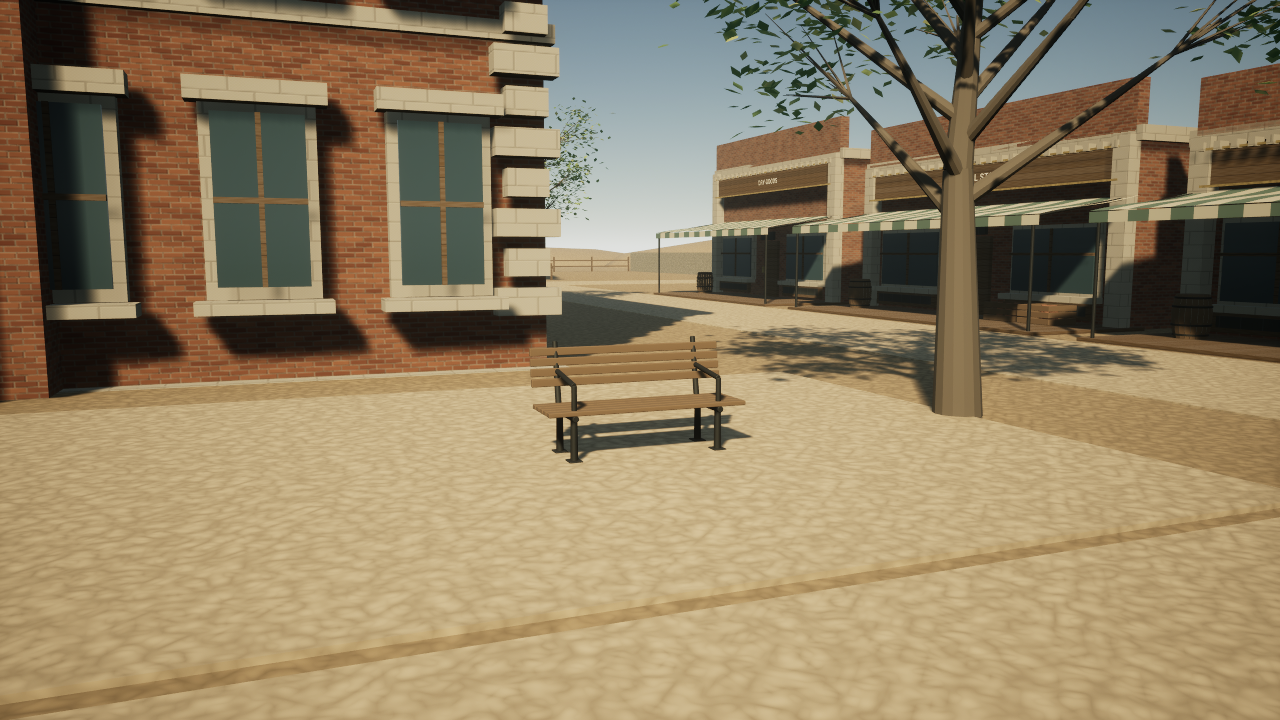
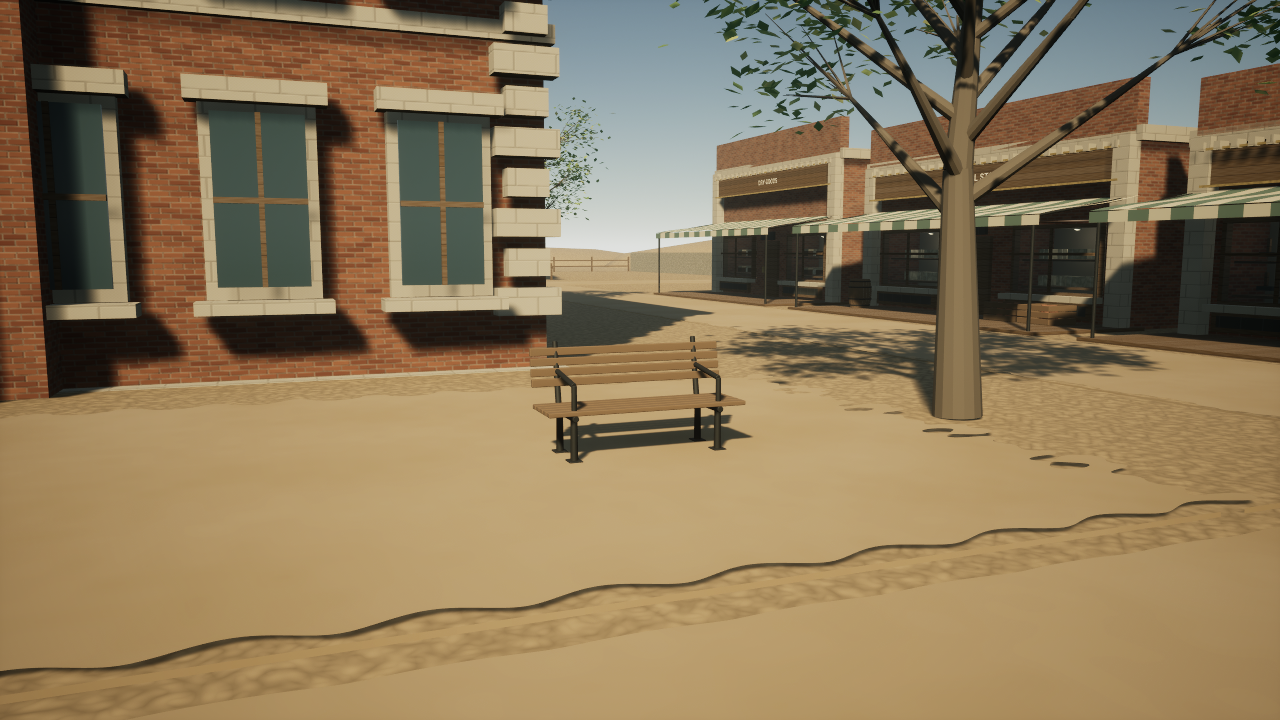
Give shops recessed displays and begin Reed appearance refinement

diff --git a/Source/CountyLine/World/CLPecosBend.cpp b/Source/CountyLine/World/CLPecosBend.cpp
@@ -35,6 +35,10 @@ UStaticMeshComponent* ACLPecosBend::Shape(const FString& Name,FVector P,FVector 
     else if(Kind==TEXT("Timber")) Finish=TEXT("Wood");
     else if(Kind==TEXT("Iron")) Finish=TEXT("Metal");
     else if(Kind==TEXT("Plaster")) Finish=TEXT("Stone");
+    if(Name.Contains(TEXT("DisplayInnerBack")))
+        if(auto* Backing=LoadObject<UMaterialInterface>(nullptr,TEXT("/Game/Art/Town/ShopDetails/M_DisplayBacking.M_DisplayBacking"))) C->SetMaterial(0,Backing);
+    if(Kind==TEXT("RoadDust"))
+        if(auto* Road=LoadObject<UMaterialInterface>(nullptr,TEXT("/Game/Art/Town/ShopDetails/M_WornRoadV2.M_WornRoadV2"))) C->SetMaterial(0,Road);
     if(!Finish.IsEmpty())
         if(auto* TownMaterial=LoadObject<UMaterialInterface>(nullptr,*FString::Printf(TEXT("/Game/Art/Town/StreetFinishes/M_StreetFinish%s.M_StreetFinish%s"),*Finish,*Finish))) C->SetMaterial(0,TownMaterial);
     C->SetCollisionEnabled(Collision?ECollisionEnabled::QueryAndPhysics:ECollisionEnabled::NoCollision);C->SetCollisionResponseToAllChannels(ECR_Block);
@@ -56,14 +60,64 @@ void ACLPecosBend::Store(const FString& Name,const FString& Title,FVector P,floa
     auto* Block=CreateDefaultSubobject<USceneComponent>(*(Name+TEXT("Block")));
     Block->SetupAttachment(RootComponent);Block->SetRelativeLocation(P);Block->SetRelativeRotation(FRotator(0,Yaw,0));
     ConstructionParent=Block;P=FVector::ZeroVector;
-    Shape(Name+TEXT("Walls"),P+FVector(0,0,Height/2),FVector(Width,700,Height),TEXT("Brick"));
+    // Closed-shop collision envelope remains unchanged; visible masonry leaves real display bays.
+    Shape(Name+TEXT("Walls"),P+FVector(0,0,Height/2),FVector(Width,700,Height),TEXT("Brick"))->SetVisibility(false);
+    Shape(Name+TEXT("RearMass"),FVector(0,70,Height/2),FVector(Width,560,Height),TEXT("Brick"),TEXT("Cube"),false);
+    Shape(Name+TEXT("FrontHeader"),FVector(0,-280,(Height+260)/2),FVector(Width,140,Height-260),TEXT("Brick"),TEXT("Cube"),false);
+    Shape(Name+TEXT("FrontBase"),FVector(0,-280,34),FVector(Width,140,68),TEXT("Brick"),TEXT("Cube"),false);
+    Shape(Name+TEXT("DoorPier"),FVector(0,-280,164),FVector(Width*.28f,140,192),TEXT("Brick"),TEXT("Cube"),false);
     Shape(Name+TEXT("Cornice"),P+FVector(0,0,Height),FVector(Width+35,735,35),TEXT("Plaster"));
     Shape(Name+TEXT("Parapet"),P+FVector(0,-350,Height+65),FVector(Width,35,120),TEXT("Brick"));
     Shape(Name+TEXT("Door"),P+FVector(0,-355,112),FVector(100,12,224),TEXT("Timber"));
     for(int32 Side:{-1,1})
     {
-        Shape(Name+FString::Printf(TEXT("Frame%d"),Side),P+FVector(Side*Width*.28f,-360,160),FVector(Width*.28f,18,180),TEXT("Plaster"));
-        Shape(Name+FString::Printf(TEXT("Glass%d"),Side),P+FVector(Side*Width*.28f,-372,160),FVector(Width*.28f-20,6,160),TEXT("Iron"));
+        const float X=Side*Width*.28f, Bay=Width*.28f;
+        Shape(Name+FString::Printf(TEXT("OuterPier%d"),Side),FVector(Side*Width*.46f,-280,164),FVector(Width*.08f,140,192),TEXT("Brick"),TEXT("Cube"),false);
+        Shape(Name+FString::Printf(TEXT("DisplayInnerBack%d"),Side),FVector(X,-218,160),FVector(Bay,8,180),TEXT("Linen"),TEXT("Cube"),false);
+        for(int32 Edge:{-1,1})
+        {
+            Shape(Name+FString::Printf(TEXT("FrameJamb%d_%d"),Side,Edge),FVector(X+Edge*(Bay/2-5),-360,160),FVector(10,18,180),TEXT("Timber"),TEXT("Cube"),false);
+            Shape(Name+FString::Printf(TEXT("FrameRail%d_%d"),Side,Edge),FVector(X,-360,160+Edge*85),FVector(Bay,18,10),TEXT("Timber"),TEXT("Cube"),false);
+        }
+        auto* Pane=Shape(Name+FString::Printf(TEXT("DisplayPane%d"),Side),FVector(X,-369,160),FVector(Bay-20,2,160),TEXT("Iron"),TEXT("Cube"),false);
+        if(auto* Glass=LoadObject<UMaterialInterface>(nullptr,TEXT("/Game/Art/Town/ShopDetails/M_DisplayGlass.M_DisplayGlass"))) Pane->SetMaterial(0,Glass);
+        Pane->SetCastShadow(false);
+        Shape(Name+FString::Printf(TEXT("DisplayLamp%d"),Side),FVector(X,-290,240),FVector(18,18,8),TEXT("Linen"),TEXT("Sphere"),false);
+        auto* DisplayLight=CreateDefaultSubobject<UPointLightComponent>(*(Name+FString::Printf(TEXT("DisplayLight%d"),Side)));
+        DisplayLight->SetupAttachment(Block);DisplayLight->SetRelativeLocation(FVector(X,-300,222));
+        DisplayLight->SetIntensity(350);DisplayLight->SetAttenuationRadius(240);
+        DisplayLight->SetLightColor(FLinearColor(1.f,.91f,.77f));DisplayLight->SetCastShadows(false);
+        DisplayLight->SetMobility(EComponentMobility::Movable);
+        for(int32 Row=0;Row<2;++Row)
+        {
+            Shape(Name+FString::Printf(TEXT("DisplayShelf%d_%d"),Side,Row),FVector(X,-285,90+Row*70),FVector(Bay-24,115,5),TEXT("Timber"),TEXT("Cube"),false);
+            for(int32 Item=0;Item<5;++Item)
+            {
+                const FString Id=Name+FString::Printf(TEXT("Stock%d_%d_%d"),Side,Row,Item);
+                const FVector At(X+(Item-2)*(Bay-45)/5,-285+(Item%2)*15,106+Row*70);
+                if(Name==TEXT("Drugs"))
+                {
+                    Shape(Id,At,FVector(16,16,28),TEXT("BottleGlass"),TEXT("Cylinder"),false);
+                    Shape(Id+TEXT("Stopper"),At+FVector(0,0,17),FVector(8,8,7),TEXT("Timber"),TEXT("Cylinder"),false);
+                    Shape(Id+TEXT("Label"),At+FVector(0,-8,0),FVector(11,1,12),TEXT("PaperLabel"),TEXT("Cube"),false);
+                }
+                else if(Name==TEXT("DryGoods"))
+                {
+                    Shape(Id,At,FVector(34,50,18),Item%2?TEXT("Linen"):TEXT("BrownWool"),TEXT("Cube"),false);
+                    Shape(Id+TEXT("Fold"),At+FVector(0,0,13),FVector(32,47,7),TEXT("Shirt"),TEXT("Cube"),false);
+                }
+                else if(Name==TEXT("ClosedShop"))
+                {
+                    Shape(Id,At,FVector(32,12,9),TEXT("Iron"),TEXT("Cube"),false);
+                    Shape(Id+TEXT("Handle"),At+FVector(0,0,18),FVector(6,6,30),TEXT("Timber"),TEXT("Cube"),false);
+                }
+                else
+                {
+                    Shape(Id,At,FVector(30,37,26),TEXT("PaperLabel"),TEXT("Cube"),false);
+                    Shape(Id+TEXT("Twine"),At+FVector(0,-19,0),FVector(2,1,26),TEXT("Linen"),TEXT("Cube"),false);
+                }
+            }
+        }
         Shape(Name+FString::Printf(TEXT("Mullion%d"),Side),P+FVector(Side*Width*.28f,-377,160),FVector(6,6,160),TEXT("Timber"),TEXT("Cube"),false);
     }
     Shape(Name+TEXT("SignBoard"),P+FVector(0,-370,Height-65),FVector(Width-60,15,78),TEXT("Timber"));
@@ -90,9 +144,25 @@ void ACLPecosBend::Store(const FString& Name,const FString& Title,FVector P,floa
             Shape(Name+FString::Printf(TEXT("CorniceDentil%d_%d"),Side,Dentil),FVector(Side*(25+Dentil*Width/25),-380,Height-22),FVector(14,28,18),TEXT("Plaster"),TEXT("Cube"),false);
         Shape(Name+FString::Printf(TEXT("SignFrame%d"),Side),FVector(0,-382,Height-65+Side*38),FVector(Width-54,10,5),TEXT("Brass"),TEXT("Cube"),false);
     }
-    StreetMesh(Name+TEXT("StockBarrel"),TEXT("SM_StreetBarrel"),FVector(Width*.40f,-465,6));
-    Shape(Name+TEXT("StockBarrelBlock"),FVector(Width*.40f,-465,51),FVector(70,70,90),TEXT("Timber"),TEXT("Cylinder"))->SetVisibility(false);
-    if(Name==TEXT("Grocer")) StreetMesh(Name+TEXT("ProduceDisplay"),TEXT("SM_StreetDisplay"),FVector(-Width*.28f,-440,6));
+    if(Name==TEXT("Grocer"))
+    {
+        StreetMesh(Name+TEXT("ProduceDisplay"),TEXT("SM_StreetDisplay"),FVector(-Width*.28f,-440,6));
+        Shape(Name+TEXT("ProduceBlock"),FVector(-Width*.28f,-440,30),FVector(210,90,48),TEXT("Timber"))->SetVisibility(false);
+        StreetMesh(Name+TEXT("StockBarrel"),TEXT("SM_StreetBarrel"),FVector(Width*.40f,-465,6));
+        Shape(Name+TEXT("StockBarrelBlock"),FVector(Width*.40f,-465,51),FVector(70,70,90),TEXT("Timber"),TEXT("Cylinder"))->SetVisibility(false);
+    }
+    if(Name==TEXT("PostOffice"))
+    {
+        Shape(Name+TEXT("LetterBox"),FVector(Width*.43f,-399,132),FVector(45,44,65),TEXT("Iron"));
+        Shape(Name+TEXT("LetterSlot"),FVector(Width*.43f,-422,150),FVector(31,2,4),TEXT("Hair"),TEXT("Cube"),false);
+        Sign(Name+TEXT("Collection"),TEXT("LETTERS"),FVector(Width*.43f,-424,131),-90,7);
+    }
+    if(Name==TEXT("ClosedShop"))
+    {
+        Shape(Name+TEXT("RepairBench"),FVector(-Width*.29f,-440,82),FVector(175,75,10),TEXT("Timber"));
+        for(int32 Leg:{-1,1}) Shape(Name+FString::Printf(TEXT("RepairLeg%d"),Leg),FVector(-Width*.29f+Leg*65,-440,43),FVector(12,60,80),TEXT("Timber"));
+        Shape(Name+TEXT("Vise"),FVector(-Width*.29f+45,-454,96),FVector(32,36,20),TEXT("Iron"),TEXT("Cube"),false);
+    }
     if(Name==TEXT("Drugs")) Sign(Name+TEXT("WindowService"),TEXT("PRESCRIPTIONS\nSODA WATER"),FVector(-Width*.28f,-385,153),-90,14);
     if(Name==TEXT("PostOffice")) Sign(Name+TEXT("WindowService"),TEXT("LETTERS\nPARCELS"),FVector(-Width*.28f,-385,153),-90,17);
     ConstructionParent=nullptr;
@@ -368,8 +438,8 @@ ACLPecosBend::ACLPecosBend()
     for(int32 I=0;I<23;++I)
     {
         const float Y=700+I*120;
-        Shape(FString::Printf(TEXT("CourtPaving%d"),I),FVector(-1750,Y,.5f),FVector(300,117,3),TEXT("Plaster"),TEXT("Cube"),false);
-        Shape(FString::Printf(TEXT("CourtCurb%d"),I),FVector(-1910,Y,1),FVector(18,118,4),TEXT("Plaster"),TEXT("Cube"),false);
+        Shape(FString::Printf(TEXT("CourtPaving%d"),I),FVector(-1750+(I%3-1)*2,Y,3.f+(I%4)*.12f),FVector(300,115+(I%3),3),TEXT("Plaster"),TEXT("Cube"),false);
+        Shape(FString::Printf(TEXT("CourtCurb%d"),I),FVector(-1910,Y,3),FVector(18,118,4),TEXT("Plaster"),TEXT("Cube"),false);
     }
     // The Enterprise fronts the square's southern approach beside Lang's.
     Shape(TEXT("EnterpriseFloor"),FVector(-2650,-2450,-12),FVector(900,1000,24),TEXT("Timber"));

diff --git a/Scripts/build_shop_details.py b/Scripts/build_shop_details.py
@@ -1,0 +1,68 @@
+"""Immutable shop glazing, worn dust, and Reed-only material revision."""
+import unreal
+T=unreal.AssetToolsHelpers.get_asset_tools();L=unreal.MaterialEditingLibrary
+folder='/Game/Art/Town/ShopDetails'
+def make(name,path=folder):
+ if unreal.EditorAssetLibrary.does_asset_exist(path+'/'+name): return None
+ return T.create_asset(name,path,unreal.Material,unreal.MaterialFactoryNew())
+def constant(mat,value,prop):
+ cls=unreal.MaterialExpressionConstant3Vector if isinstance(value,tuple) else unreal.MaterialExpressionConstant
+ e=L.create_material_expression(mat,cls)
+ e.set_editor_property('constant' if isinstance(value,tuple) else 'r',unreal.LinearColor(*value,1) if isinstance(value,tuple) else value)
+ L.connect_material_property(e,'',prop)
+def save(m):
+ L.recompile_material(m);unreal.EditorAssetLibrary.save_loaded_asset(m,only_if_is_dirty=False)
+m=make('M_DisplayGlass')
+if m:
+ m.set_editor_property('blend_mode',unreal.BlendMode.BLEND_TRANSLUCENT)
+ m.set_editor_property('two_sided',True)
+ constant(m,(.12,.16,.17),unreal.MaterialProperty.MP_BASE_COLOR)
+ constant(m,.14,unreal.MaterialProperty.MP_OPACITY)
+ constant(m,.16,unreal.MaterialProperty.MP_ROUGHNESS)
+ save(m)
+m=make('M_WornRoadV2')
+if m:
+ m.set_editor_property('blend_mode',unreal.BlendMode.BLEND_MASKED)
+ uv=L.create_material_expression(m,unreal.MaterialExpressionTextureCoordinate)
+ pos=L.create_material_expression(m,unreal.MaterialExpressionWorldPosition)
+ for prop,code,output in [
+ (unreal.MaterialProperty.MP_BASE_COLOR,'''struct DirtNoise {
+ float hash(float2 v) {return frac(sin(dot(v,float2(127.1,311.7)))*43758.5453);}
+ float value(float2 v) {
+  float2 i=floor(v),f=frac(v);f=f*f*(3-2*f);
+  return lerp(lerp(hash(i),hash(i+float2(1,0)),f.x),lerp(hash(i+float2(0,1)),hash(i+1),f.x),f.y);
+ }
+};
+DirtNoise n;
+float wear=(n.value(P.xy*.008)-.5)*.035+(n.value(P.xy*.045)-.5)*.012;
+return float3(.38,.29,.18)+wear;''',unreal.CustomMaterialOutputType.CMOT_FLOAT3),
+ (unreal.MaterialProperty.MP_OPACITY_MASK,'''float2 edge=min(U,1-U);
+ float ragged=(sin(P.x*.07)*sin(P.y*.043)+sin(P.y*.19)*.3)*.016;
+ return smoothstep(.005,.065,min(edge.x,edge.y)+ragged);''',unreal.CustomMaterialOutputType.CMOT_FLOAT1)]:
+  c=L.create_material_expression(m,unreal.MaterialExpressionCustom);c.set_editor_property('code',code);c.set_editor_property('output_type',output)
+  inputs=[]
+  for key in ['P','U']:
+   item=unreal.CustomInput();item.set_editor_property('input_name',key);inputs.append(item)
+  c.set_editor_property('inputs',inputs);L.connect_material_expressions(pos,'',c,'P');L.connect_material_expressions(uv,'',c,'U');L.connect_material_property(c,'',prop)
+ constant(m,.96,unreal.MaterialProperty.MP_ROUGHNESS);save(m)
+m=make('M_DisplayBacking')
+if m:
+ constant(m,(.32,.285,.22),unreal.MaterialProperty.MP_BASE_COLOR)
+ constant(m,.94,unreal.MaterialProperty.MP_ROUGHNESS);save(m)
+# Dedicated Reed materials avoid changing every civilian who shares generic clothing.
+colors={'OliveWool':(.12,.115,.075),'Shirt':(.36,.30,.20),'Trouser':(.075,.061,.043),'Leather':(.061,.035,.019),'Skin':(.43,.255,.16),'HatFelt':(.18,.13,.073),'Brass':(.38,.37,.32)}
+mesh=unreal.load_asset('/Game/Art/Characters/SK_Reed_Period')
+slots=list(mesh.materials)
+for key,color in colors.items():
+ path='/Game/Art/Characters/Reed';name='M_Reed_'+key
+ m=make(name,path)
+ if m:
+  constant(m,color,unreal.MaterialProperty.MP_BASE_COLOR)
+  constant(m,.5 if key in ('Leather','Skin') else .35 if key=='Brass' else .92,unreal.MaterialProperty.MP_ROUGHNESS)
+  if key=='Brass':constant(m,.75,unreal.MaterialProperty.MP_METALLIC)
+  L.set_material_usage(m,unreal.MaterialUsage.MATUSAGE_SKELETAL_MESH);save(m)
+ m=unreal.load_asset(path+'/'+name)
+ for i,slot in enumerate(slots):
+  if str(slot.material_slot_name).split('.')[0]==key:slot.material_interface=m;slots[i]=slot
+mesh.materials=slots;unreal.EditorAssetLibrary.save_loaded_asset(mesh,only_if_is_dirty=False)
+unreal.log('CL_SHOP_DETAILS_SUCCESS')

diff --git a/Scripts/author_period_characters.py b/Scripts/author_period_characters.py
@@ -3,7 +3,7 @@
 Requires export_character_base.py first. Clothing, faces and hats are original
 procedural models; the existing licensed Epic skeleton supplies animation.
 """
-import bpy, bmesh, math
+import bpy, bmesh, math, sys
 from pathlib import Path
 from mathutils import Vector
 
@@ -80,7 +80,8 @@ def body_weight(p):
    t=(p.z-a)/(b-a);return {an:1-t,bn:t}
  return {'spine_03':1}
 
-for kind in ['Reed','Salazar']:
+reed_only='--reed-only' in sys.argv
+for kind in (['Reed'] if reed_only else ['Reed','Salazar']):
  f=Figure('SK_'+kind+'_Period');coat='OliveWool' if kind=='Reed' else 'BrownWool'
  # Torso and high-waisted trousers.
  f.torso([(0.9,.145,.105,.025),(1.06,.155,.10,.025),(1.23,.157,.103,.028),(1.43,.188,.095,.035),(1.51,.18,.073,.038),(1.57,.075,.052,.038),(1.595,.05,.048,.038)],'Shirt' if kind=='Reed' else 'Linen')
@@ -95,6 +96,12 @@ for kind in ['Reed','Salazar']:
   f.face([(side*.01,-.066,1.54),(side*.07,-.065,1.52),(side*.049,-.09,1.445)],'Shirt' if kind=='Reed' else 'Linen',{'spine_03':1})
   for z in ([1.08,1.2,1.32] if kind=='Reed' else [1.08,1.2]):
    f.ellipsoid((side*.065,-.10,z),(.011,.006,.011),'Leather','spine_01' if z<1.2 else 'spine_02',10,5)
+ # Reed garment construction: pocket flaps, hem seam, buckle and boot lacing.
+ if kind=='Reed':
+  for side in (-1,1):
+   f.face([(side*.09,-.104,1.055),(side*.17,-.073,1.055),(side*.17,-.078,1.016),(side*.09,-.109,1.016)],coat,body_weight)
+   f.tube([(side*.09,-.109,1.051),(side*.17,-.079,1.051)],[.002,.002],'HatBand',body_weight,6)
+  f.face([(-.026,-.087,1.06),(.026,-.087,1.06),(.026,-.089,1.031),(-.026,-.089,1.031)],'Brass',{'pelvis':1})
  # Tie / neckerchief.
  f.ellipsoid((0,-.063,1.496),(.021,.018,.022),'Hair','spine_03',10,5)
  f.face([(-.018,-.081,1.48),(.018,-.081,1.48),(.025,-.091,1.31),(0,-.093,1.275),(-.024,-.091,1.31)],'Hair',body_weight)
@@ -119,6 +126,12 @@ for kind in ['Reed','Salazar']:
   f.tube([thigh,thigh.lerp(knee,.3),knee,knee.lerp(foot,.8),foot],[.096,.092,.068,.06,.058],'Trouser' if kind=='Reed' else 'BrownWool',leg_weight)
   f.ellipsoid((foot.x,foot.y-.057,.065),(.071,.154,.059),'Leather','foot_'+side,16,8)
   f.tube([foot,foot+Vector((0,0,.13))],[.061,.061],'Leather',{'calf_'+side:1})
+  if kind=='Reed':
+   for j in range(5):
+    z=.11+j*.017
+    f.tube([(foot.x-.022,foot.y-.064,z),(foot.x+.022,foot.y-.064,z+.010)],[.002,.002],'HatBand',{'foot_'+side:1},6)
+    f.tube([(foot.x+.022,foot.y-.066,z),(foot.x-.022,foot.y-.066,z+.010)],[.002,.002],'HatBand',{'foot_'+side:1},6)
+   f.ellipsoid((foot.x,foot.y-.052,.021),(.073,.153,.018),'HatBand','foot_'+side,20,6)
   # Hand and articulated fingers follow their original bones.
   palm=hand.lerp(bones['middle_01_'+side],.42)
   f.ellipsoid(palm,(.044,.039,.072),'Skin','hand_'+side)
@@ -144,5 +157,5 @@ for kind in ['Reed','Salazar']:
   f.torso([(1.812,.153,.178,.035),(1.824,.153,.178,.035),(1.825,.085,.098,.035),(1.914,.072,.08,.035),(1.95,.04,.065,.035),(1.951,.001,.001,.035)],'HatFelt',weights={'head':1})
   f.torso([(1.827,.086,.099,.035),(1.851,.083,.096,.035)],'HatBand',weights={'head':1})
  ob=f.finish();ob.hide_set(True)
-bpy.ops.wm.save_as_mainfile(filepath=str(OUT/'PeriodCharacters.blend'))
+bpy.ops.wm.save_as_mainfile(filepath=str(OUT/('ReedAppearance.blend' if reed_only else 'PeriodCharacters.blend')))
 print('CL_CHARACTERS_AUTHORED')

diff --git a/Source/CountyLine/World/CLPrototypeGameMode.cpp b/Source/CountyLine/World/CLPrototypeGameMode.cpp
@@ -483,9 +483,9 @@ void ACLPrototypeGameMode::CaptureTownReview()
 {
     // Engine-rendered QA artifacts, isolated by the required CLSmokeTest run.
     // These cameras do not alter the player's saved location or normal view.
-    const FVector Positions[]={FVector(-11000,-8500,9500),FVector(-1600,-480,260),FVector(-4340,-1820,190),FVector(-7600,2800,2500),FVector(-4400,-1400,450),FVector(-6250,4250,220),FVector(-5350,-150,210),FVector(-2350,550,210),FVector(-4400,-900,180),FVector(-5350,4570,180)};
-    const FVector Targets[]={FVector(-3300,1700,250),FVector(-560,0,260),FVector(-4000,-2330,110),FVector(-2700,5650,150),FVector(-3900,1200,650),FVector(-5500,5550,230),FVector(-6550,1400,210),FVector(-950,2400,240),FVector(-4700,-150,85),FVector(-5350,4930,130)};
-    const TCHAR* Names[]={TEXT("TownOverview.png"),TEXT("JailFrontage.png"),TEXT("LangLobby.png"),TEXT("ResidentialLane.png"),TEXT("CourthouseDetail.png"),TEXT("HomeDetail.png"),TEXT("WestMarketStreet.png"),TEXT("CourtStreetShops.png"),TEXT("SquareSeating.png"),TEXT("NorthLaneResident.png")};
+    const FVector Positions[]={FVector(-11000,-8500,9500),FVector(-1600,-480,260),FVector(-4340,-1820,190),FVector(-7600,2800,2500),FVector(-4400,-1400,450),FVector(-6250,4250,220),FVector(-5350,-150,210),FVector(-2350,550,210),FVector(-4400,-900,180),FVector(-5350,4570,180),FVector(-1900,1500,155),FVector(-5430,2250,155),FVector(-2460,1200,145)};
+    const FVector Targets[]={FVector(-3300,1700,250),FVector(-560,0,260),FVector(-4000,-2330,110),FVector(-2700,5650,150),FVector(-3900,1200,650),FVector(-5500,5550,230),FVector(-6550,1400,210),FVector(-950,2400,240),FVector(-4700,-150,85),FVector(-5350,4930,130),FVector(-1220,1500,155),FVector(-6320,2300,155),FVector(-2100,1200,105)};
+    const TCHAR* Names[]={TEXT("TownOverview.png"),TEXT("JailFrontage.png"),TEXT("LangLobby.png"),TEXT("ResidentialLane.png"),TEXT("CourthouseDetail.png"),TEXT("HomeDetail.png"),TEXT("WestMarketStreet.png"),TEXT("CourtStreetShops.png"),TEXT("SquareSeating.png"),TEXT("NorthLaneResident.png"),TEXT("DrugstoreDisplay.png"),TEXT("DryGoodsDisplay.png"),TEXT("ReedAppearance.png")};
     const int32 View=TownReviewStep/2;
     if(View>=UE_ARRAY_COUNT(Positions)+(FParse::Param(FCommandLine::Get(),TEXT("CLStreetReview"))?0:17)) {GetWorldTimerManager().ClearTimer(TownReviewTimer);FPlatformMisc::RequestExitWithStatus(false,0);return;}
     if(View>=UE_ARRAY_COUNT(Positions))
@@ -555,6 +555,12 @@ void ACLPrototypeGameMode::CaptureTownReview()
     }
     if(TownReviewStep%2==0)
     {
+        if(View==12)
+            if(auto* Pawn=UGameplayStatics::GetPlayerPawn(this,0))
+            {
+                Pawn->SetActorHiddenInGame(false);
+                Pawn->SetActorLocationAndRotation(FVector(-2100,1200,96),FRotator(0,180,0));
+            }
         TownReviewCamera->SetActorLocationAndRotation(Positions[View],(Targets[View]-Positions[View]).Rotation());
         TownReviewCamera->GetCameraComponent()->SetFieldOfView(View==2?85.f:70.f);
     }

diff --git a/Scripts/import_reed_appearance.py b/Scripts/import_reed_appearance.py
@@ -1,0 +1,44 @@
+import unreal
+from pathlib import Path
+ROOT=Path(unreal.Paths.project_dir()).resolve()
+TOOLS=unreal.AssetToolsHelpers.get_asset_tools()
+mats={}
+for source in [ROOT/'SourceAssets/Authored/Characters/SK_Reed_Period.fbx']:
+ skeletal=source.name.startswith('SK_')
+ folder='/Game/Art/Characters' if skeletal else '/Game/Art/BendLateral'
+ task=unreal.AssetImportTask();task.filename=str(source);task.destination_path=folder
+ task.destination_name=source.stem;task.automated=True;task.replace_existing=True;task.save=True
+ task.factory=unreal.FbxFactory()
+ opts=unreal.FbxImportUI();opts.automated_import_should_detect_type=False
+ opts.import_mesh=True;opts.import_materials=False;opts.import_textures=False;opts.import_animations=False
+ opts.import_as_skeletal=skeletal
+ opts.mesh_type_to_import=unreal.FBXImportType.FBXIT_SKELETAL_MESH if skeletal else unreal.FBXImportType.FBXIT_STATIC_MESH
+ if skeletal:
+  opts.skeleton=unreal.load_asset('/Game/Mannequin/Character/Mesh/SK_Mannequin').get_editor_property('skeleton')
+  assert opts.skeleton,'Existing animation skeleton missing'
+  opts.create_physics_asset=False
+  opts.skeletal_mesh_import_data.set_editor_property('update_skeleton_reference_pose',False)
+  opts.skeletal_mesh_import_data.set_editor_property('use_t0_as_ref_pose',False)
+ else:
+  opts.static_mesh_import_data.combine_meshes=True
+  opts.static_mesh_import_data.auto_generate_collision=False
+ task.options=opts;TOOLS.import_asset_tasks([task])
+ mesh=unreal.load_asset(folder+'/'+source.stem)
+ assert mesh,'Failed to import '+source.name
+ if skeletal:
+  slots=list(mesh.materials)
+  for i,slot in enumerate(slots):
+   key=str(slot.get_editor_property('material_slot_name')).split('.')[0]
+   if key in mats:
+    unreal.MaterialEditingLibrary.set_material_usage(mats[key],unreal.MaterialUsage.MATUSAGE_SKELETAL_MESH)
+    unreal.EditorAssetLibrary.save_loaded_asset(mats[key])
+    slot.set_editor_property('material_interface',mats[key]);slots[i]=slot
+  mesh.materials=slots
+  assert mesh.get_editor_property('skeleton')==opts.skeleton,'Import did not preserve the animation skeleton'
+ else:
+  for i,slot in enumerate(mesh.get_editor_property('static_materials')):
+   key=str(slot.get_editor_property('material_slot_name')).split('.')[0]
+   if key in mats:mesh.set_material(i,mats[key])
+ unreal.EditorAssetLibrary.save_loaded_asset(mesh,only_if_is_dirty=False)
+ unreal.log('CL_ART_IMPORTED '+mesh.get_path_name())
+unreal.log('CL_VISUAL_IMPORT_SUCCESS')

diff --git a/Docs/SHOPFRONT_IDENTITY.md b/Docs/SHOPFRONT_IDENTITY.md
@@ -1,0 +1,25 @@
+# Shopfront identity and Reed appearance, first pass
+
+The approved block layout is unchanged. Closed shops now have two recessed display bays behind lightly tinted glazing, with warm display lights and neutral backing. The full building collision envelope remains invisible and intact, so displays do not accidentally become entrances. Visible masonry is split around those bays.
+
+- General store: produce display and one stock barrel.
+- Drugstore: labeled bottles and stoppers on display shelves.
+- Dry goods: stacked folded fabrics.
+- Post office: tied parcels and a wall-mounted letter box.
+- Repair shop: displayed hand tools and an outdoor workbench with vise.
+
+Road surfaces have irregular terrain reveals along their boundaries and restrained color wear. Court Street paving has small joint/height variations without introducing blocking collision. This remains procedural prototype environment art; full authored dirt transitions and close-up shop interiors are future work.
+
+Reed's dedicated first appearance pass uses IMG_1940.JPG for the olive-brown coat, tan shirt, brown trousers, leather boots, and pale metal badge. Added pocket flaps, pocket seams, belt buckle, boot soles and lacing preserve the existing animation skeleton. Dedicated materials remove the coarse mottling from his principal surfaces without recoloring the civilian cast. The campaign hat remains worn for gameplay. His face, hair, hands and garment deformation are still stylized placeholders, not the final reference likeness.
+
+Reproduction:
+1. Run Blender with Scripts/author_period_characters.py -- --reed-only.
+2. Run Scripts/import_reed_appearance.py in Unreal Python.
+3. Run Scripts/build_shop_details.py in Unreal Python to bind Reed's dedicated materials and generate missing shop materials.
+4. Build CountyLineEditor and run Scripts/Test-Prototype.ps1.
+
+Generated material assets are immutable: create a new revision for shader changes rather than deleting expressions on materials loaded by actor defaults. The Reed-only path writes ReedAppearance.blend and never reauthors Salazar.
+
+Verification includes the existing closed-shop footprint and approach checks, report/save/controller regressions, and offscreen screenshots. The visual fixture now adds DrugstoreDisplay, DryGoodsDisplay and ReedAppearance to the ten town views. Its player placement is restricted to the save-isolated smoke fixture.
+
+Validated: Win64 Development editor build succeeded; all 20 Unreal automation suites and 10 Python map tests passed; 134 runtime checks passed. The final offscreen review exited 0 with no material compilation errors. Screenshot evidence is under Docs/Verification/PecosBend. Reed's FBX import reconstructed its bind pose successfully; runtime skeleton and animation checks passed.

diff --git a/Docs/STREET_VISUAL_BENCHMARK.md b/Docs/STREET_VISUAL_BENCHMARK.md
@@ -30,4 +30,6 @@ For each cast member, the eventual approval set should include front/profile/thr
 
 ## Review
 
-Run the regular prototype tests, then launch the editor commandlet with `-game -CLSmokeTest -CLTownReview -CLStreetReview -Multiprocess -RenderOffscreen -unattended -ResX=1280 -ResY=720`. It checks the normal gameplay routes and captures the ten existing town cameras without the subsequent dialogue captures. Player saves remain bypassed. Compare CourtStreetShops, SquareSeating and CourthouseDetail with prior revisions.
+Run the regular prototype tests, then launch the editor commandlet with `-game -CLSmokeTest -CLTownReview -CLStreetReview -Multiprocess -RenderOffscreen -unattended -ResX=1280 -ResY=720`. It checks the normal gameplay routes and captures thirteen town and appearance cameras without the subsequent dialogue captures. Player saves remain bypassed. Compare CourtStreetShops, SquareSeating and CourthouseDetail with prior revisions.
+
+The subsequent [shopfront identity pass](SHOPFRONT_IDENTITY.md) adds recessed displays, road edge wear and Reed-specific materials. The earlier limitations above describe this initial benchmark.
